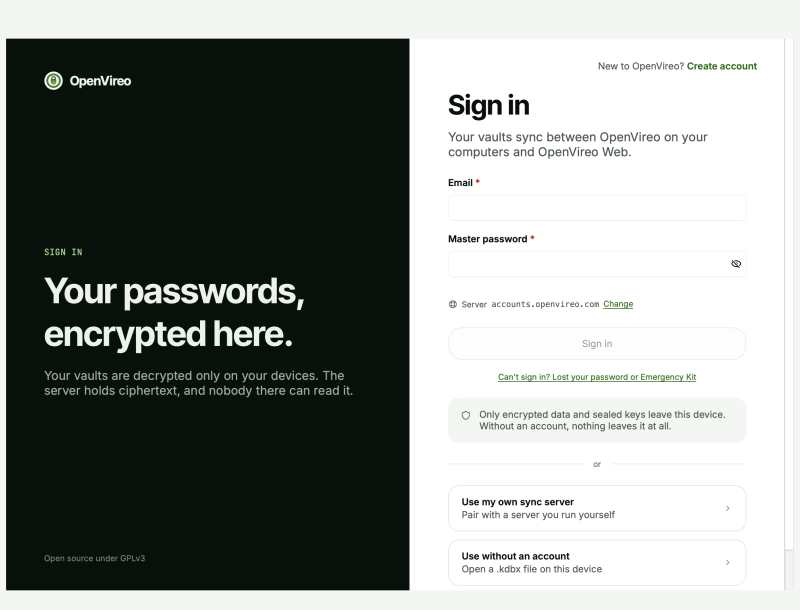
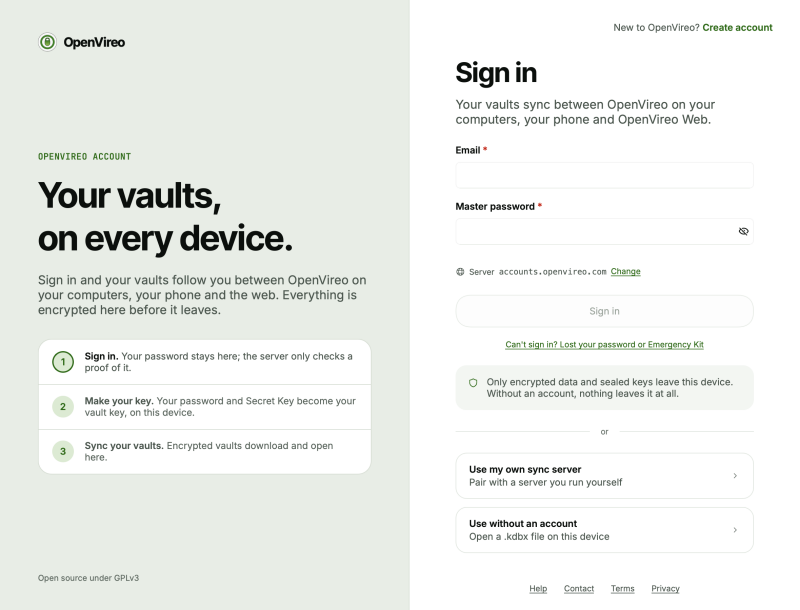
Refresh the screenshots and user guides for the desktop's light sign-in panel

diff --git a/content/docs/getting-started/_index.html b/content/docs/getting-started/_index.html
@@ -3,7 +3,7 @@ title: "Getting Started"
 description: "Download OpenVireo, create your first database, and connect your browser in a few easy steps."
 version: "1.0.0"
 updated: "2026-11-23"
-origin: "develop@138ca38a"
+origin: "develop@66a80101"
 related:
   title: "Read the full User Guide"
   url: "/docs/user-guide/"

diff --git a/content/docs/user-guide/_index.html b/content/docs/user-guide/_index.html
@@ -3,7 +3,7 @@ title: "User Guide"
 description: "Everything OpenVireo can do, explained chapter by chapter."
 version: "1.0.0"
 updated: "2026-11-23"
-origin: "develop@138ca38a"
+origin: "develop@66a80101"
 related:
   title: "New here? Getting Started"
   url: "/docs/getting-started/"
